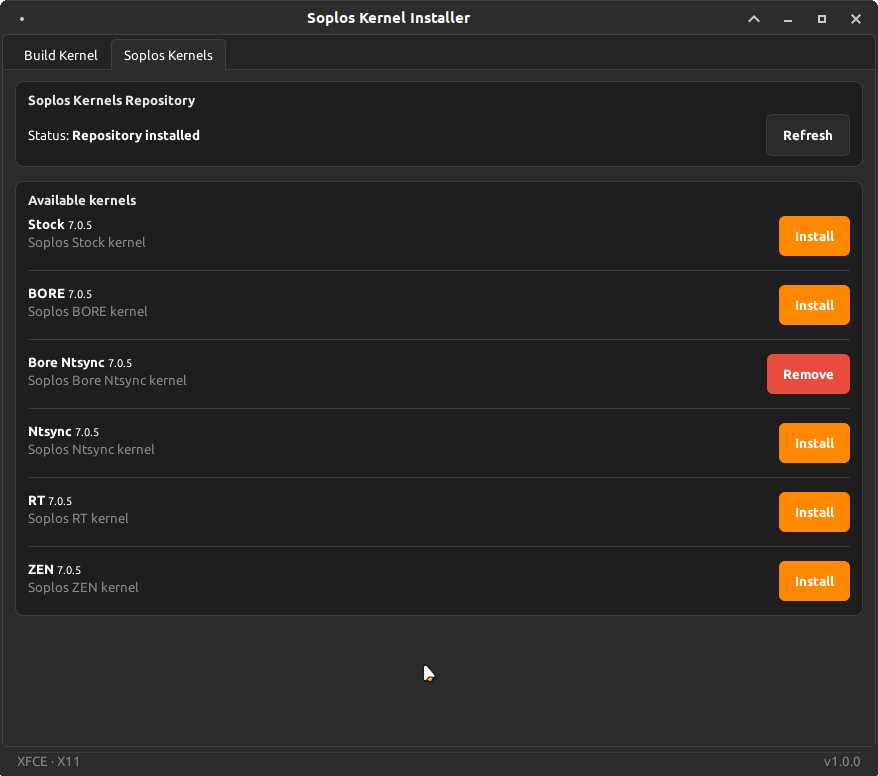
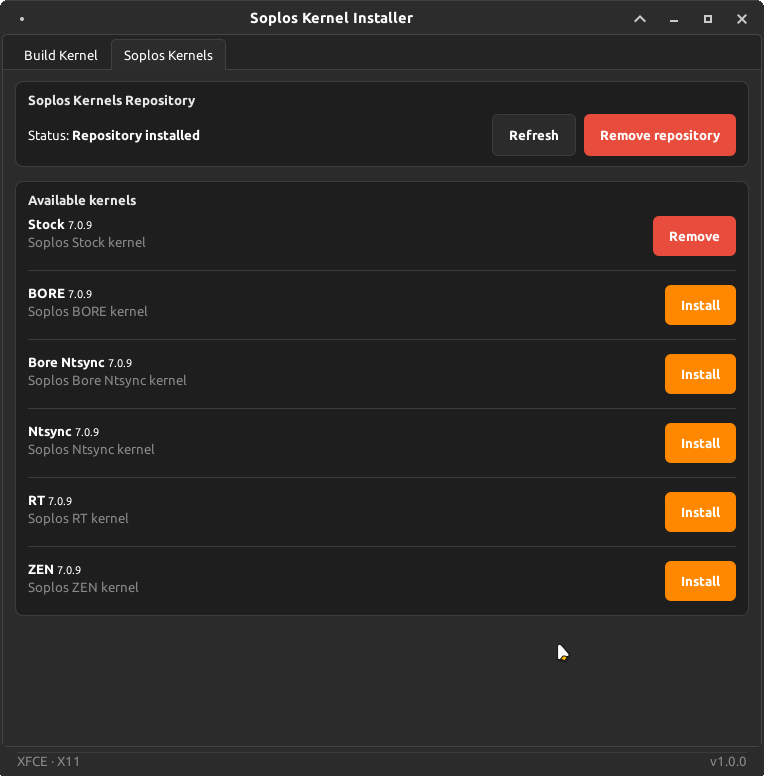
Update kernel-installer screenshots and release notes for v1.0.0-1

diff --git a/wiki/releases/soplos-kernel-installer/index.html b/wiki/releases/soplos-kernel-installer/index.html
@@ -116,11 +116,26 @@
                     <aside class="toc">
                         <h3 id="rel-toc-title">Versions</h3>
                         <ul>
+                            <li><a href="#v1001" class="toc-link">1.0.0-1 <span class="toc-date">— 2026-06-02</span></a></li>
                             <li><a href="#v100" class="toc-link">1.0.0 <span class="toc-date">— 2026-04-05</span></a></li>
                         </ul>
                     </aside>
 
                     <article class="main-content">
+
+                        <!-- 1.0.0-1 -->
+                        <section id="v1001" class="content-section">
+                            <h2><i class="fas fa-tag"></i> <span id="ki-rel-1001-title">1.0.0-1 — June 2026</span></h2>
+                            <p id="ki-rel-1001-subtitle" class="lead">Added a "Remove repository" button to the Soplos Kernels tab for clean repository removal without affecting installed kernels.</p>
+
+                            <div class="subsection-header">
+                                <h3><i class="fas fa-plus-circle"></i> <span data-i18n="rel-label-added">Added</span></h3>
+                                <div class="accent-hr"></div>
+                            </div>
+                            <ul>
+                                <li id="ki-rel-1001-added-li1"><strong>Remove repository button:</strong> New button in the Soplos Kernels tab — removes <code>/etc/apt/sources.list.d/soplos-kernels.sources</code> and <code>/usr/share/keyrings/soplos-kernels.gpg</code>, then runs <code>apt-get update</code>. Already installed kernels are not affected. UI updates instantly.</li>
+                            </ul>
+                        </section>
 
                         <!-- 1.0.0 -->
                         <section id="v100" class="content-section">

diff --git a/js/lang/lang-wiki-de.js b/js/lang/lang-wiki-de.js
@@ -4272,6 +4272,9 @@ Object.assign(window.LANG_DE, {
     "ki-rel-hero-title": "Soplos Kernel Installer",
     "ki-rel-hero-subtitle": "Benutzerdefinierter Linux-Kernel-Compiler und vorkompilierter Kernel-Installer für Soplos Linux — kompilieren Sie Ihren eigenen Kernel mit BORE-, Zen-, NTSYNC- und PREEMPT_RT-Patches oder installieren Sie gebrauchsfertige Soplos-Kernel aus dem offiziellen Repository.",
 
+    "ki-rel-1001-title": "1.0.0-1 — Juni 2026",
+    "ki-rel-1001-subtitle": "Schaltfläche &#8222;Repository entfernen&#8220; im Tab Soplos-Kernel hinzugefügt — entfernt das Repository sauber ohne bereits installierte Kernel zu beeinflussen.",
+    "ki-rel-1001-added-li1": "<strong>Schaltfläche Repository entfernen:</strong> Neue Schaltfläche im Tab Soplos-Kernel — entfernt <code>/etc/apt/sources.list.d/soplos-kernels.sources</code> und <code>/usr/share/keyrings/soplos-kernels.gpg</code>, führt dann <code>apt-get update</code> aus. Bereits installierte Kernel sind nicht betroffen. Die Benutzeroberfläche aktualisiert sich sofort.",
     "ki-rel-100-title": "1.0.0 — April 2026",
     "ki-rel-100-subtitle": "Erstveröffentlichung: Kernel-Compiler mit BORE-, Zen-, NTSYNC- und PREEMPT_RT-Unterstützung, Soplos-Kernels-Tab, Secure Boot / MOK-Verwaltung und vollständige i18n in 8 Sprachen.",
     "ki-rel-100-added-heading": "Build-Funktionen",
@@ -4355,7 +4358,7 @@ Object.assign(window.LANG_DE, {
     "sc-rel-1022-fixed-li3": "<strong>Tab Treiber — Korrekturen nicht in Produktion angewendet:</strong> <code>root_helper.py</code> wurde nicht mit den Parametern <code>gpu_pci_vendors</code> und <code>vm_guest_type</code> aktualisiert — jetzt behoben.",
     "sc-rel-1022-fixed-li4": "<strong>Tab Firmwares — dracut-Schutzschicht client-seitig fehlend:</strong> <code>root_helper.py</code> exportierte <code>dracut_fw_dirs</code> nicht im Scan-JSON. Der Schutz umfasst nun korrekt die in <code>/etc/dracut.conf.d/</code> deklarierten Verzeichnisse.",
     "sc-rel-1022-fixed-li5": "<strong>Fortschrittsleiste — zeigt 100% während Operationen:</strong> <code>set_ui_state(..., pulse=True)</code> setzt nun <code>fraction</code> auf <code>0.0</code> zurück, bevor <code>pulse()</code> aufgerufen wird.",
-    "sc-rel-1022-fixed-li6": "<strong>Kontrollkästchen „Alle auswählen" wird nach Bereinigung nicht zurückgesetzt:</strong> Zurücksetzung im <code>on_done</code>-Callback aller relevanten Tabs hinzugefügt.",
+    "sc-rel-1022-fixed-li6": "<strong>Kontrollkästchen &#8222;Alle auswählen&#8220; wird nach Bereinigung nicht zurückgesetzt:</strong> Zurücksetzung im <code>on_done</code>-Callback aller relevanten Tabs hinzugefügt.",
     "sc-rel-1021-title": "1.0.2-1 — April 2026",
     "sc-rel-1021-subtitle": "Snap-Reiter neu gestaltet mit vollständiger Bereinigungsunterstützung, Erkennung virtueller Maschinenumgebungen mit Hypervisor-Identifikation und kritische Korrekturen für Kernel-Entfernung, Paketverwaltungsbefehle und Übersetzungsabdeckung.",
     "sc-rel-1021-added-li1": "<strong>Snap-Reiter neu gestaltet:</strong> Hat nun wie Flatpak zwei Abschnitte — installierte Snaps mit vollständiger Deinstallation (<code>snap remove --purge</code>, entfernt Snap und alle Daten) und alte/deaktivierte Revisionen.",

diff --git a/js/lang/lang-wiki-en.js b/js/lang/lang-wiki-en.js
@@ -5028,6 +5028,9 @@ Object.assign(window.LANG_EN, {
   "ki-rel-hero-title": "Soplos Kernel Installer",
   "ki-rel-hero-subtitle": "Custom Linux kernel builder and pre-built kernel installer for Soplos Linux — compile your own kernel with BORE, Zen, NTSYNC and PREEMPT_RT patches, or install ready-to-use Soplos kernels from the official repository.",
 
+  "ki-rel-1001-title": "1.0.0-1 — June 2026",
+  "ki-rel-1001-subtitle": "Added a \"Remove repository\" button to the Soplos Kernels tab for clean repository removal without affecting installed kernels.",
+  "ki-rel-1001-added-li1": "<strong>Remove repository button:</strong> New button in the Soplos Kernels tab — removes <code>/etc/apt/sources.list.d/soplos-kernels.sources</code> and <code>/usr/share/keyrings/soplos-kernels.gpg</code>, then runs <code>apt-get update</code>. Already installed kernels are not affected. UI updates instantly.",
   "ki-rel-100-title": "1.0.0 — April 2026",
   "ki-rel-100-subtitle": "Initial release: custom kernel compiler with BORE, Zen, NTSYNC and PREEMPT_RT support, Soplos Kernels tab, Secure Boot / MOK management and full i18n in 8 languages.",
   "ki-rel-100-added-heading": "Build Features",

diff --git a/js/lang/lang-wiki-es.js b/js/lang/lang-wiki-es.js
@@ -4272,6 +4272,9 @@ Object.assign(window.LANG_ES, {
     "ki-rel-hero-title": "Soplos Kernel Installer",
     "ki-rel-hero-subtitle": "Compilador de kernels Linux personalizados e instalador de kernels precompilados para Soplos Linux — compila tu propio kernel con parches BORE, Zen, NTSYNC y PREEMPT_RT, o instala kernels Soplos listos para usar desde el repositorio oficial.",
 
+    "ki-rel-1001-title": "1.0.0-1 — Junio 2026",
+    "ki-rel-1001-subtitle": "Añadido botón «Eliminar repositorio» en la pestaña Kernels Soplos para eliminar el repositorio de forma limpia sin afectar los kernels ya instalados.",
+    "ki-rel-1001-added-li1": "<strong>Botón eliminar repositorio:</strong> Nuevo botón en la pestaña Kernels Soplos — elimina <code>/etc/apt/sources.list.d/soplos-kernels.sources</code> y <code>/usr/share/keyrings/soplos-kernels.gpg</code>, luego ejecuta <code>apt-get update</code>. Los kernels ya instalados no se ven afectados. La UI se actualiza al instante.",
     "ki-rel-100-title": "1.0.0 — Abril 2026",
     "ki-rel-100-subtitle": "Primera versión: compilador de kernels con soporte BORE, Zen, NTSYNC y PREEMPT_RT, pestaña Soplos Kernels, gestión Secure Boot / MOK e i18n completo en 8 idiomas.",
     "ki-rel-100-added-heading": "Funciones de compilación",

diff --git a/js/lang/lang-wiki-fr.js b/js/lang/lang-wiki-fr.js
@@ -4267,6 +4267,9 @@ Object.assign(window.LANG_FR, {
     "ki-rel-hero-title": "Soplos Kernel Installer",
     "ki-rel-hero-subtitle": "Compilateur de noyaux Linux personnalisés et installateur de noyaux précompilés pour Soplos Linux — compilez votre propre noyau avec les patches BORE, Zen, NTSYNC et PREEMPT_RT, ou installez des noyaux Soplos prêts à l'emploi depuis le dépôt officiel.",
 
+    "ki-rel-1001-title": "1.0.0-1 — Juin 2026",
+    "ki-rel-1001-subtitle": "Ajout d'un bouton « Supprimer le dépôt » dans l'onglet Noyaux Soplos pour supprimer proprement le dépôt sans affecter les noyaux déjà installés.",
+    "ki-rel-1001-added-li1": "<strong>Bouton supprimer le dépôt :</strong> Nouveau bouton dans l'onglet Noyaux Soplos — supprime <code>/etc/apt/sources.list.d/soplos-kernels.sources</code> et <code>/usr/share/keyrings/soplos-kernels.gpg</code>, puis exécute <code>apt-get update</code>. Les noyaux déjà installés ne sont pas affectés. L'interface se met à jour instantanément.",
     "ki-rel-100-title": "1.0.0 — Avril 2026",
     "ki-rel-100-subtitle": "Première version : compilateur de noyaux avec support BORE, Zen, NTSYNC et PREEMPT_RT, onglet Soplos Kernels, gestion Secure Boot / MOK et i18n complet en 8 langues.",
     "ki-rel-100-added-heading": "Fonctionnalités de compilation",

diff --git a/js/lang/lang-wiki-it.js b/js/lang/lang-wiki-it.js
@@ -4269,6 +4269,9 @@ Object.assign(window.LANG_IT, {
     "ki-rel-hero-title": "Soplos Kernel Installer",
     "ki-rel-hero-subtitle": "Compilatore di kernel Linux personalizzati e installatore di kernel precompilati per Soplos Linux — compila il tuo kernel con patch BORE, Zen, NTSYNC e PREEMPT_RT, o installa kernel Soplos pronti all'uso dal repository ufficiale.",
 
+    "ki-rel-1001-title": "1.0.0-1 — Giugno 2026",
+    "ki-rel-1001-subtitle": "Pulsante &#8220;Rimuovi repository&#8221; aggiunto alla scheda Kernel Soplos — rimuove il repository in modo pulito senza influire sui kernel già installati.",
+    "ki-rel-1001-added-li1": "<strong>Pulsante rimuovi repository:</strong> Nuovo pulsante nella scheda Kernel Soplos — rimuove <code>/etc/apt/sources.list.d/soplos-kernels.sources</code> e <code>/usr/share/keyrings/soplos-kernels.gpg</code>, poi esegue <code>apt-get update</code>. I kernel già installati non vengono influenzati. L&#39;interfaccia si aggiorna immediatamente.",
     "ki-rel-100-title": "1.0.0 — Aprile 2026",
     "ki-rel-100-subtitle": "Prima versione: compilatore di kernel con supporto BORE, Zen, NTSYNC e PREEMPT_RT, scheda Soplos Kernels, gestione Secure Boot / MOK e i18n completo in 8 lingue.",
     "ki-rel-100-added-heading": "Funzionalità di compilazione",

diff --git a/js/lang/lang-wiki-pt.js b/js/lang/lang-wiki-pt.js
@@ -4267,6 +4267,9 @@ Object.assign(window.LANG_PT, {
     "ki-rel-hero-title": "Soplos Kernel Installer",
     "ki-rel-hero-subtitle": "Compilador de kernels Linux personalizados e instalador de kernels pré-compilados para Soplos Linux — compile o seu próprio kernel com patches BORE, Zen, NTSYNC e PREEMPT_RT, ou instale kernels Soplos prontos a usar a partir do repositório oficial.",
 
+    "ki-rel-1001-title": "1.0.0-1 — Junho 2026",
+    "ki-rel-1001-subtitle": "Botão &#8220;Remover repositório&#8221; adicionado ao separador Kernels Soplos — remove o repositório de forma limpa sem afetar os kernels já instalados.",
+    "ki-rel-1001-added-li1": "<strong>Botão remover repositório:</strong> Novo botão no separador Kernels Soplos — remove <code>/etc/apt/sources.list.d/soplos-kernels.sources</code> e <code>/usr/share/keyrings/soplos-kernels.gpg</code>, depois executa <code>apt-get update</code>. Os kernels já instalados não são afetados. A interface atualiza-se instantaneamente.",
     "ki-rel-100-title": "1.0.0 — Abril 2026",
     "ki-rel-100-subtitle": "Primeira versão: compilador de kernels com suporte BORE, Zen, NTSYNC e PREEMPT_RT, separador Soplos Kernels, gestão Secure Boot / MOK e i18n completo em 8 idiomas.",
     "ki-rel-100-added-heading": "Funcionalidades de compilação",

diff --git a/js/lang/lang-wiki-ro.js b/js/lang/lang-wiki-ro.js
@@ -4268,6 +4268,9 @@ Object.assign(window.LANG_RO, {
     "ki-rel-hero-title": "Soplos Kernel Installer",
     "ki-rel-hero-subtitle": "Compilator de kerneluri Linux personalizate și instalator de kerneluri precompilate pentru Soplos Linux — compilați propriul kernel cu patch-uri BORE, Zen, NTSYNC și PREEMPT_RT, sau instalați kerneluri Soplos gata de utilizat din depozitul oficial.",
 
+    "ki-rel-1001-title": "1.0.0-1 — Iunie 2026",
+    "ki-rel-1001-subtitle": "Buton &#8220;Eliminare depozit&#8221; adăugat în fila Kernels Soplos — elimină depozitul fără a afecta kernelurile deja instalate.",
+    "ki-rel-1001-added-li1": "<strong>Buton eliminare depozit:</strong> Buton nou în fila Kernels Soplos — elimină <code>/etc/apt/sources.list.d/soplos-kernels.sources</code> și <code>/usr/share/keyrings/soplos-kernels.gpg</code>, apoi rulează <code>apt-get update</code>. Kernelurile deja instalate nu sunt afectate. Interfața se actualizează instantaneu.",
     "ki-rel-100-title": "1.0.0 — Aprilie 2026",
     "ki-rel-100-subtitle": "Prima versiune: compilator de kerneluri cu suport BORE, Zen, NTSYNC și PREEMPT_RT, fila Soplos Kernels, gestionare Secure Boot / MOK și i18n complet în 8 limbi.",
     "ki-rel-100-added-heading": "Funcționalități de compilare",

diff --git a/js/lang/lang-wiki-ru.js b/js/lang/lang-wiki-ru.js
@@ -4271,6 +4271,9 @@ Object.assign(window.LANG_RU, {
     "ki-rel-hero-title": "Soplos Kernel Installer",
     "ki-rel-hero-subtitle": "Компилятор пользовательских ядер Linux и установщик предсобранных ядер для Soplos Linux — компилируйте собственное ядро с патчами BORE, Zen, NTSYNC и PREEMPT_RT или устанавливайте готовые ядра Soplos из официального репозитория.",
 
+    "ki-rel-1001-title": "1.0.0-1 — Июнь 2026",
+    "ki-rel-1001-subtitle": "Кнопка &#8220;Удалить репозиторий&#8221; добавлена во вкладку Ядра Soplos — удаляет репозиторий без влияния на уже установленные ядра.",
+    "ki-rel-1001-added-li1": "<strong>Кнопка удалить репозиторий:</strong> Новая кнопка во вкладке Ядра Soplos — удаляет <code>/etc/apt/sources.list.d/soplos-kernels.sources</code> и <code>/usr/share/keyrings/soplos-kernels.gpg</code>, затем выполняет <code>apt-get update</code>. Уже установленные ядра не затрагиваются. Интерфейс обновляется мгновенно.",
     "ki-rel-100-title": "1.0.0 — Апрель 2026",
     "ki-rel-100-subtitle": "Первый выпуск: компилятор ядер с поддержкой BORE, Zen, NTSYNC и PREEMPT_RT, вкладка Soplos Kernels, управление Secure Boot / MOK и полная локализация на 8 языков.",
     "ki-rel-100-added-heading": "Функции сборки",

diff --git a/wiki/releases/index.html b/wiki/releases/index.html
@@ -192,7 +192,7 @@
                         <div class="release-card-body">
                             <h3>Soplos Kernel Installer</h3>
                             <p id="rel-idx-ki-desc">Graphical kernel builder with patch support (BORE, Zen, NTSYNC, RT) and one-click Soplos kernels.</p>
-                            <span class="release-version-badge">1.0.0</span>
+                            <span class="release-version-badge">1.0.0-1</span>
                         </div>
                         <span class="release-card-arrow"><i class="fas fa-chevron-right"></i></span>
                     </a>